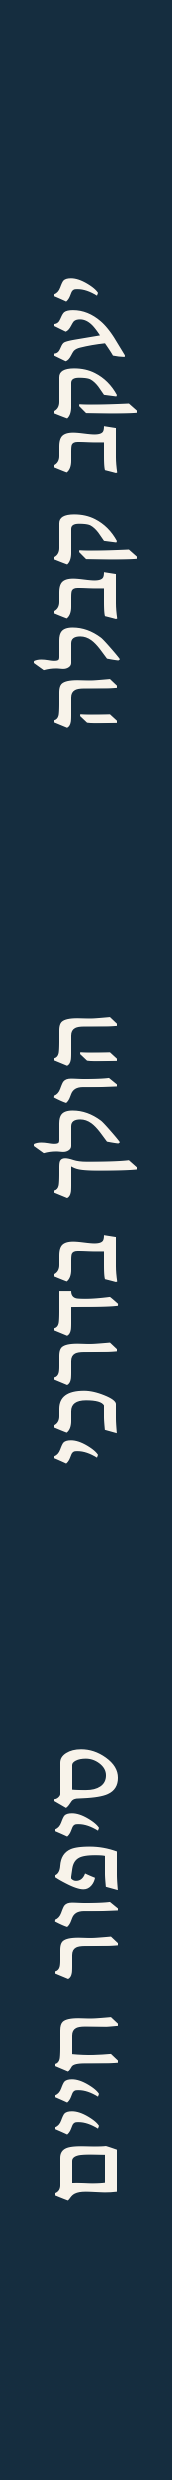
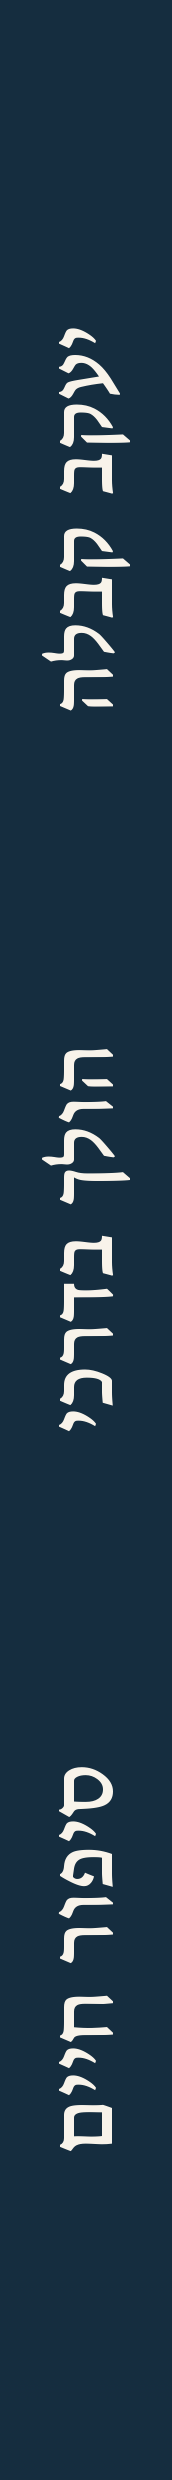
Spine viewer: reduce spine font more (soft x0.70, hard x0.58); cache-bust v=8; update build tag

Changed region(s): [[0.2326, 0.0931, 0.7558, 0.3105], [0.3198, 0.6831, 0.6977, 0.9004], [0.2326, 0.4036, 0.7558, 0.5899]]

diff --git a/index.html b/index.html
@@ -633,7 +633,7 @@
     <button id="spineClose" onclick="closeSpine()" title="סגור" aria-label="סגור">
       <svg viewBox="0 0 24 24" width="18" height="18"><path d="M6 6l12 12M18 6 6 18"/></svg>
     </button>
-    <div id="spineStage"><img id="spineImg" src="images/spines/woodfree180gsm_hardcover.png?v=7" alt="שדרת הספר"/></div>
+    <div id="spineStage"><img id="spineImg" src="images/spines/woodfree180gsm_hardcover.png?v=8" alt="שדרת הספר"/></div>
     <div id="spineControls">
       <div id="spineTypeSel" class="spine-seg">
         <button type="button" class="spine-seg-btn on" data-type="hardcover" onclick="setSpineType('hardcover')">כריכה קשה</button>
@@ -1543,7 +1543,7 @@ function renderSpine() {
   var paper = document.getElementById('spinePaperSel').value;
   var info = SPINE_PAPER_MM[paper];
   var img = document.getElementById('spineImg');
-  img.src = 'images/spines/' + paper + '_' + spineType + '.png?v=7';
+  img.src = 'images/spines/' + paper + '_' + spineType + '.png?v=8';
   var typeHeb = spineType === 'hardcover' ? 'כריכה קשה' : 'כריכה רכה';
   var mm = info[spineType];
   document.getElementById('spineCaption').textContent =
@@ -1592,7 +1592,7 @@ warm(srcs(edition), 4, function () {
 });
 </script>
 
-<div id="buildTag">build: 2026-08-18 00:41 GMT+3</div>
+<div id="buildTag">build: 2026-08-18 00:48 GMT+3</div>
 
 </body>
 </html>
